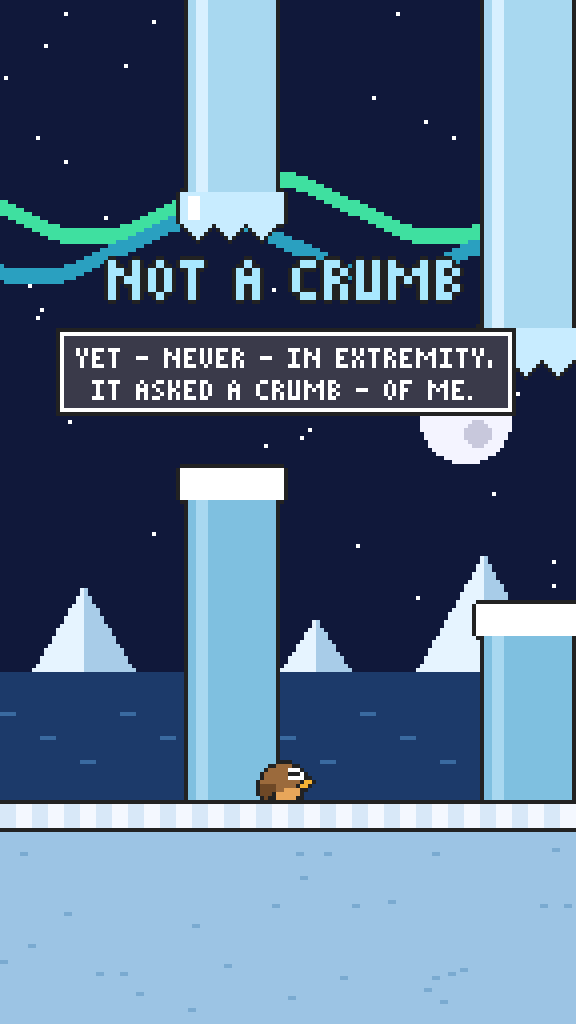
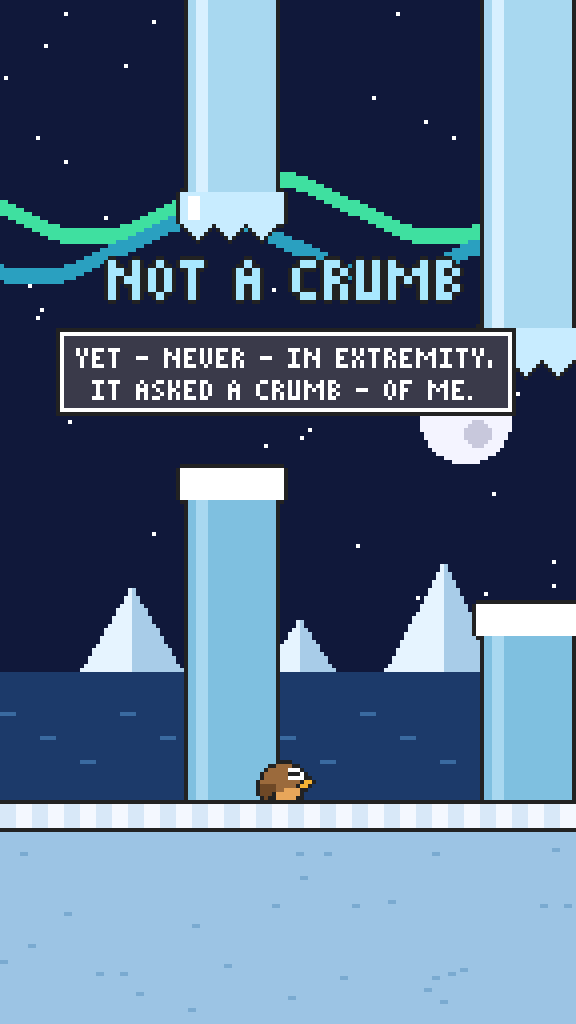
Keep backdrop edges free of landmarks
Wide screens show mirrored copies of each background beside the
original. Move the houses, cliff and icebergs away from the edges so
those copies only repeat plain scenery.

Changed region(s): [[0.6562, 0.5312, 0.875, 0.6562], [0.0625, 0.5625, 0.3125, 0.6562], [0.4688, 0.5938, 0.625, 0.6562]]

diff --git a/Art/make_sprites.py b/Art/make_sprites.py
@@ -265,14 +265,14 @@ def l1_background():
     img = Image.new("RGBA", (W, H), c("#c7b3ea"))
     px = img.load()
     circle(px, 108, 60, 14, c("#ffe680"))
-    cloud(px, 10, 40, c("#ffffff"))
+    cloud(px, 20, 40, c("#ffffff"))
     cloud(px, 70, 90, c("#ffffff"))
     cloud(px, 112, 130, c("#ffffff"))
     circle(px, 30, 215, 50, c("#6cbf5a"))
     circle(px, 120, 225, 55, c("#5aa84a"))
-    house(px, 14, 166, c("#a0603a"), c("#c0392b"), c("#ffe680"))
+    house(px, 40, 166, c("#a0603a"), c("#c0392b"), c("#ffe680"))
     for i in range(4):  # smoke
-        circle(px, 28 + i, 150 - i * 7, 2, c("#eeeeee"))
+        circle(px, 54 + i, 150 - i * 7, 2, c("#eeeeee"))
     return img
 
 
@@ -296,10 +296,10 @@ def l2_background(flash=False):
     box(px, 0, 176, W, GROUND_Y, c("#233048"))
     for x in range(0, W, 12):
         box(px, x + 2, 174, x + 8, 177, c("#dfe8f2"))
-    box(px, 0, 150, 40, GROUND_Y, c("#1a1d28"))
-    house(px, 10, 138, c("#1a1d28"), c("#1a1d28"), c("#ffd860"))
+    box(px, 0, 150, 60, GROUND_Y, c("#1a1d28"))
+    house(px, 30, 138, c("#1a1d28"), c("#1a1d28"), c("#ffd860"))
     for i in range(4):  # smoke blown sideways
-        circle(px, 20 - i * 6, 126 - i, 2, c("#555d72"))
+        circle(px, 40 - i * 6, 126 - i, 2, c("#555d72"))
     return img
 
 
@@ -317,7 +317,7 @@ def l3_background():
     circle(px, 112, 101, 2, c("#c8c8dc"))
     circle(px, 119, 108, 3, c("#c8c8dc"))
     box(px, 0, 168, W, GROUND_Y, c("#1c3a6a"))
-    for x0, w0, h0 in ((8, 26, 22), (70, 18, 14), (104, 34, 30)):  # icebergs
+    for x0, w0, h0 in ((20, 26, 22), (66, 18, 14), (96, 30, 28)):  # icebergs
         for i in range(h0):
             half = w0 // 2 * (i + 1) // h0
             cx = x0 + w0 // 2
